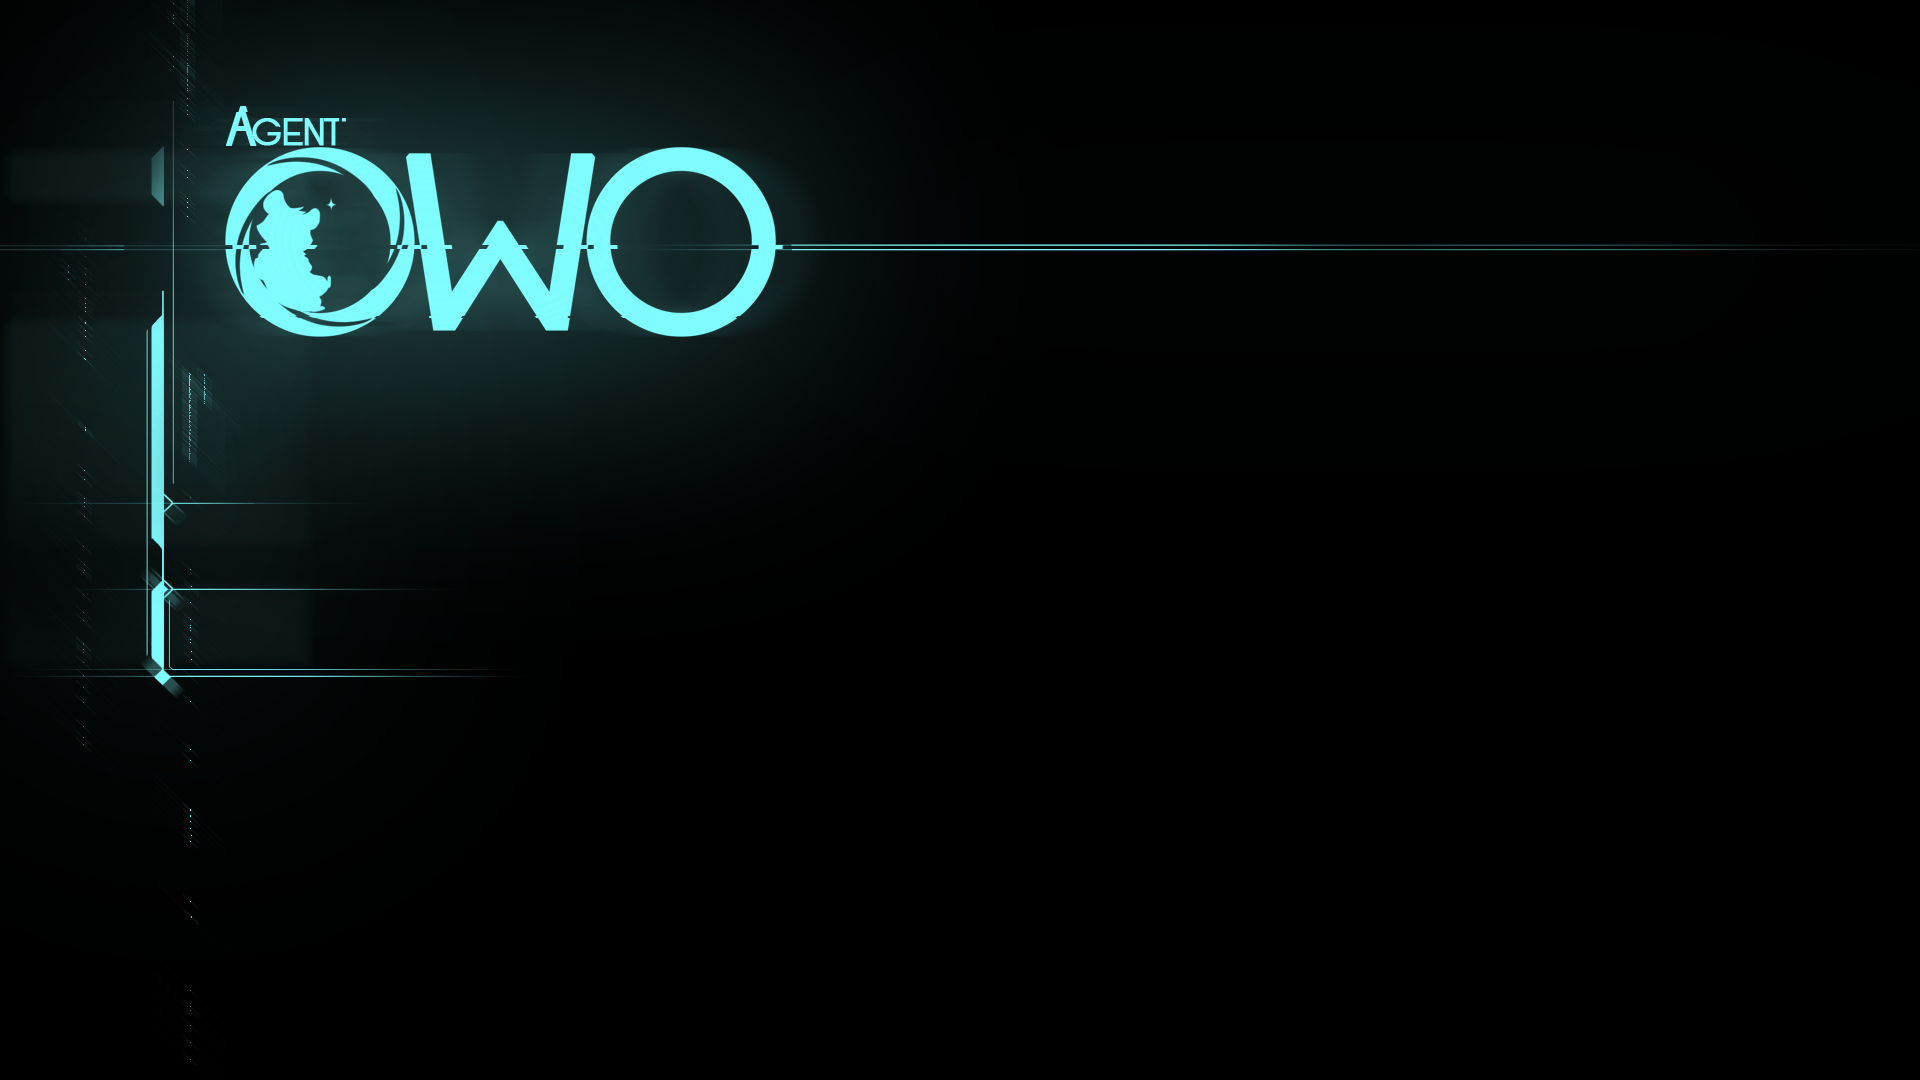
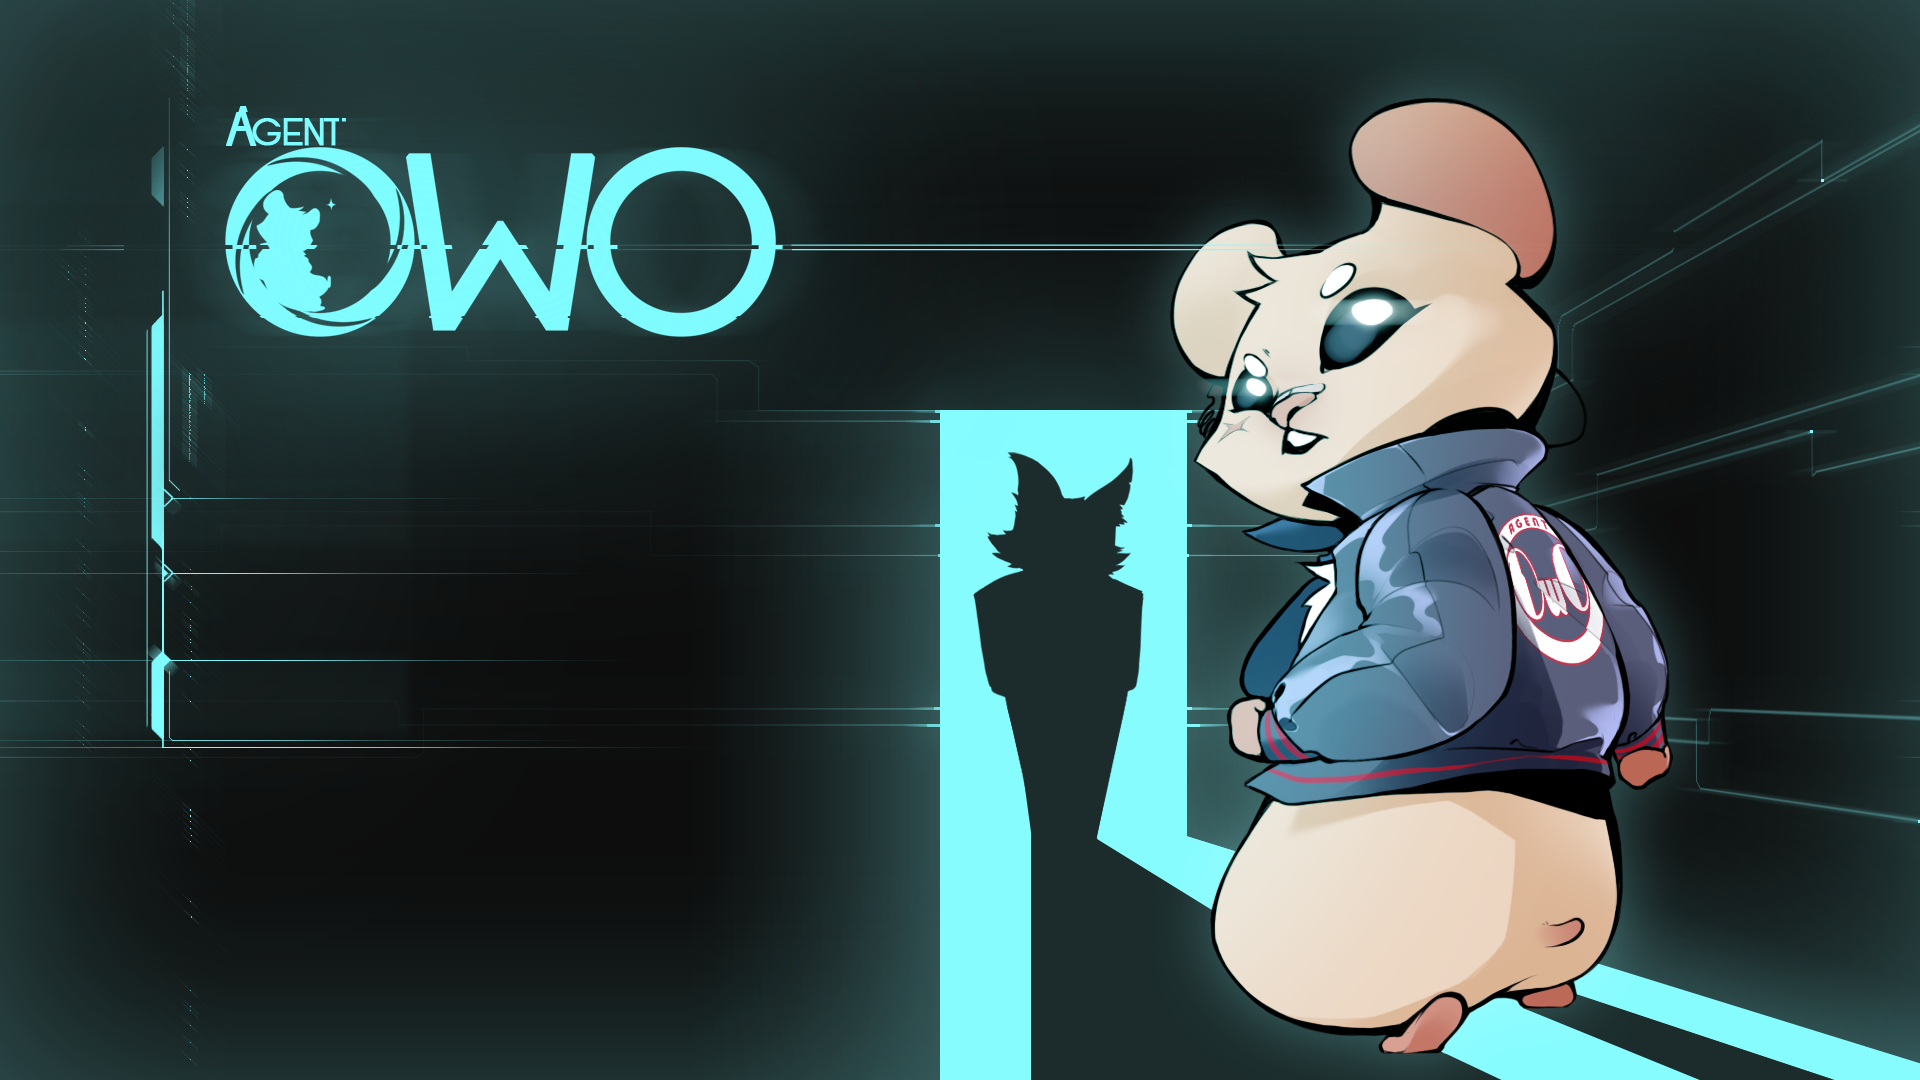
Implemented the new controle screen.

diff --git a/mge_v18_student_version/src/mge/User Interface/ControleScreen.cpp b/mge_v18_student_version/src/mge/User Interface/ControleScreen.cpp
@@ -1,0 +1,79 @@
+#include "ControleScreen.hpp"
+
+ControleScreen::ControleScreen(World * world, sf::RenderWindow * window) : world(world)
+{
+	initialize();
+
+	mouse = new GameObject("MOUSE");
+	mouseBehaviour = new MouseBehaviour(window);
+	mouse->setBehaviour(mouseBehaviour);
+	world->add(mouse);
+}
+
+ControleScreen::~ControleScreen()
+{
+	delete mouseBehaviour;
+	world->remove(mouse);
+	delete mouse;
+	delete backgroundTexture;
+	
+	ButtonManager::RemoveButton(backButton);
+	delete backButton;
+}
+
+void ControleScreen::Draw(sf::RenderWindow* window)
+{
+	window->draw(backgroundImage);
+
+	if (ButtonManager::GetAmountOfButtons > 0)
+	{
+		for (unsigned int index = 0; index < ButtonManager::GetAmountOfButtons(); ++index)
+		{
+			Button* current = ButtonManager::GetButton(index);
+			window->draw(*current->GetSprite());
+		}
+	}
+}
+
+void ControleScreen::initialize()
+{
+	lua_State* luaControls = LuaWrapper::InitializeLuaState("LuaGameScripts\\UI\\Controls.lua");
+	lua_getglobal(luaControls, "Buttons");
+
+	lua_pushnil(luaControls);
+
+	while (lua_next(luaControls, -2) != 0)
+	{
+		glm::vec3 position = LuaWrapper::GetTableVec3(luaControls, "Position");
+		std::string UIType = LuaWrapper::GetTableString(luaControls, "Type");
+		std::string imagePath = LuaWrapper::GetTableString(luaControls, "ImagePath");
+
+		if (UIType == "BUTTON")
+		{
+			std::string ButtonType = LuaWrapper::GetTableString(luaControls, "ButtonType");
+			std::cout << "Creating return button.\n";
+			if (ButtonType == "RETURN")
+			{
+				backButton = new Button(imagePath);
+				backButton->SetCommand(new QuitCommand());
+				backButton->SetPosition(glm::vec2(position.x, position.y));
+				ButtonManager::AddButton(backButton);
+			}
+		}
+
+		if (UIType == "BACKGROUND")
+		{
+			std::cout << "Creating background.\n";
+			backgroundTexture = new sf::Texture();
+			backgroundTexture->loadFromFile(imagePath);
+			backgroundImage.setTexture(*backgroundTexture);
+			backgroundImage.setPosition(sf::Vector2f(position.x, position.y));
+			sf::Vector2u bgSize = backgroundTexture->getSize();
+			backgroundImage.setOrigin(bgSize.x * .5f, bgSize.y * .5f);
+		}
+		lua_pop(luaControls, 1);
+	}
+	lua_pop(luaControls, 1);
+
+	LuaWrapper::CloseLuaState(luaControls);
+}

diff --git a/mge_v18_student_version/src/mge/User Interface/MainMenu.cpp b/mge_v18_student_version/src/mge/User Interface/MainMenu.cpp
@@ -23,9 +23,11 @@ MainMenu::~MainMenu()
 	ButtonManager::RemoveButton(startButton);
 	ButtonManager::RemoveButton(creditsButton);
 	ButtonManager::RemoveButton(exitButton);
+	ButtonManager::RemoveButton(controlsButton);
 	delete startButton;
 	delete creditsButton;
 	delete exitButton;
+	delete controlsButton;
 	delete backgroundTexture;
 }
 
@@ -44,7 +46,6 @@ void MainMenu::Draw(sf::RenderWindow* window)
 
 void MainMenu::initialize(sf::RenderWindow* window)
 {
-
 	lua_State* luaAudio = LuaWrapper::InitializeLuaState("LuaGameScripts/Audio.lua");
 	if (AudioLocator::GetAudio()->GetMusicType() != MusicType::MAINMENU)
 	{
@@ -83,6 +84,14 @@ void MainMenu::initialize(sf::RenderWindow* window)
 				startButton->SetCommand(new StartCommand());
 				startButton->SetPosition(glm::vec2(position.x, position.y));
 				ButtonManager::AddButton(startButton);
+			}
+
+			if (ButtonType == "CONTROLS")
+			{
+				controlsButton = new Button(imagePath);
+				controlsButton->SetCommand(new ControlsCommand());
+				controlsButton->SetPosition(glm::vec2(position.x, position.y));
+				ButtonManager::AddButton(controlsButton);
 			}
 
 			if (ButtonType == "CREDIT")

diff --git a/mge_v18_student_version/src/mge/scenes/GameScene.cpp b/mge_v18_student_version/src/mge/scenes/GameScene.cpp
@@ -129,6 +129,12 @@ void GameScene::OnNotify(const GeneralEvent & info)
 			creditsScreen = nullptr;
 		}
 
+		if (controleScreen != nullptr)
+		{
+			delete controleScreen;
+			controleScreen = nullptr;
+		}
+
 		mainMenu = new MainMenu(_world, _window);
 	}
 	if (info.showPauseScreen)
@@ -144,6 +150,13 @@ void GameScene::OnNotify(const GeneralEvent & info)
 		mainMenu = nullptr;
 		creditsScreen = new CreditsScreen(_world, _window);
 	}
+	if (info.showControlScreen)
+	{
+		delete mainMenu;
+		mainMenu = nullptr;
+		controleScreen = new ControleScreen(_world, _window);
+	}
+
 }
 
 void GameScene::_initializeScene()
@@ -189,6 +202,9 @@ void GameScene::_render()
 
 	if (creditsScreen != nullptr)
 		creditsScreen->Draw(_window);
+
+	if (controleScreen != nullptr)
+		controleScreen->Draw(_window);
 
 	_window->popGLStates();
 }

diff --git a/mge_v18_student_version/src/mge/scenes/GameScene.hpp b/mge_v18_student_version/src/mge/scenes/GameScene.hpp
@@ -13,6 +13,7 @@
 #include "mge/User Interface/DeathScreen.hpp"
 #include "mge/User Interface/PauseScreen.hpp"
 #include "mge/User Interface/CreditsScreen.hpp"
+#include "mge/User Interface/ControleScreen.hpp"
 #include "mge/Audio/AudioBank.hpp"
 #include "mge/Audio/AudioManager.hpp"
 #include "mge/Audio/AudioLocator.hpp"
@@ -37,6 +38,7 @@ private:
 	DeathScreen* deathScreen = nullptr;
 	PauseScreen* pauseScreen = nullptr;
 	CreditsScreen* creditsScreen = nullptr;
+	ControleScreen* controleScreen = nullptr;
 	lua_State* config;
 	QueueBehaviour* eventQueueBehaviour;
 	Camera* camera;

diff --git a/mge_v18_student_version/src/mge/User Interface/ControleScreen.hpp b/mge_v18_student_version/src/mge/User Interface/ControleScreen.hpp
@@ -1,0 +1,22 @@
+#pragma once
+#include "mge/gameplay/Button/Button.hpp"
+#include "mge/behaviours/MouseBehaviour.hpp"
+#include "mge/gameplay/Command/QuitCommand.hpp"
+#include "mge/util/LuaScripting/LuaWrapper.hpp"
+
+class ControleScreen
+{
+public:
+	ControleScreen(World* world, sf::RenderWindow* window);
+	~ControleScreen();
+	void Draw(sf::RenderWindow* window);
+
+private:
+	void initialize();
+	World* world;
+	Button* backButton;
+	GameObject* mouse;
+	MouseBehaviour* mouseBehaviour;
+	sf::Texture* backgroundTexture;
+	sf::Sprite backgroundImage;
+};

diff --git a/mge_v18_student_version/src/mge/User Interface/MainMenu.hpp b/mge_v18_student_version/src/mge/User Interface/MainMenu.hpp
@@ -5,6 +5,7 @@
 #include "mge/gameplay/Command/StartCommand.hpp"
 #include "mge/gameplay/Command/ExitCommand.hpp"
 #include "mge/gameplay/Command/CreditsCommand.hpp"
+#include "mge/gameplay/Command/ControlsCommand.hpp"
 #include "mge/behaviours/MouseBehaviour.hpp"
 #include "mge/core/World.hpp"
 #include "mge/util/LuaScripting/LuaWrapper.hpp"
@@ -22,6 +23,7 @@ private:
 	Button* startButton;
 	Button* creditsButton;
 	Button* exitButton;
+	Button* controlsButton;
 	GameObject* mouse;
 	MouseBehaviour* mouseBehaviour;
 	sf::Texture* backgroundTexture;

diff --git a/mge_v18_student_version/src/mge/gameplay/Command/ControlsCommand.cpp b/mge_v18_student_version/src/mge/gameplay/Command/ControlsCommand.cpp
@@ -1,0 +1,17 @@
+#include "ControlsCommand.hpp"
+
+ControlsCommand::ControlsCommand()
+{
+}
+
+ControlsCommand::~ControlsCommand()
+{
+}
+
+void ControlsCommand::Execute()
+{
+	GeneralEvent info;
+	info.showControlScreen = true;
+	EventQueue::QueueEvent(info);
+}
+

diff --git a/mge_v18_student_version/src/mge/gameplay/Command/ControlsCommand.hpp b/mge_v18_student_version/src/mge/gameplay/Command/ControlsCommand.hpp
@@ -1,0 +1,11 @@
+#pragma once
+#include "mge/gameplay/Command/Command.hpp"
+#include "mge/util/EventQueue/EventQueue.hpp"
+
+class ControlsCommand : public Command
+{
+public:
+	ControlsCommand();
+	~ControlsCommand();
+	void Execute();
+};

diff --git a/mge_v18_student_version/src/mge/util/EventQueue/EventStructs.hpp b/mge_v18_student_version/src/mge/util/EventQueue/EventStructs.hpp
@@ -20,4 +20,5 @@ struct GeneralEvent
 	bool showPauseScreen = false;
 	bool closePauseScreen = false;
 	bool showCreditsScreen = false;
+	bool showControlScreen = false;
 };
